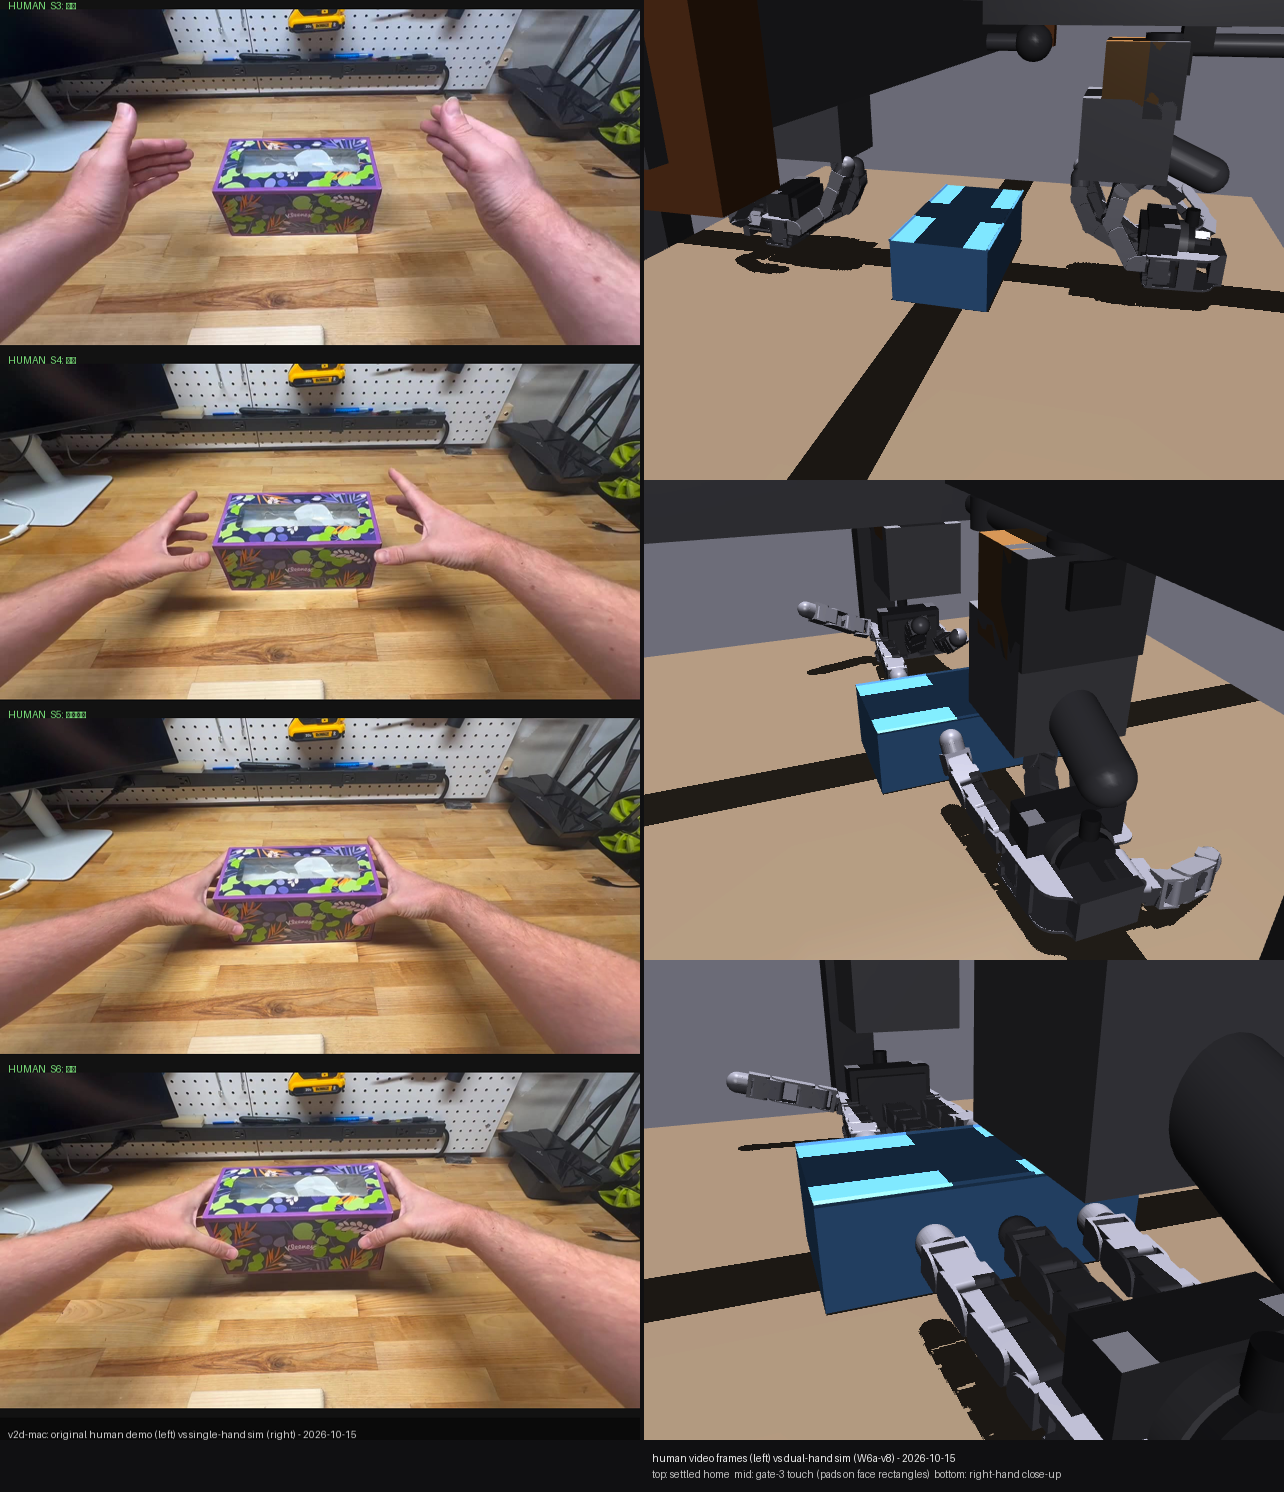
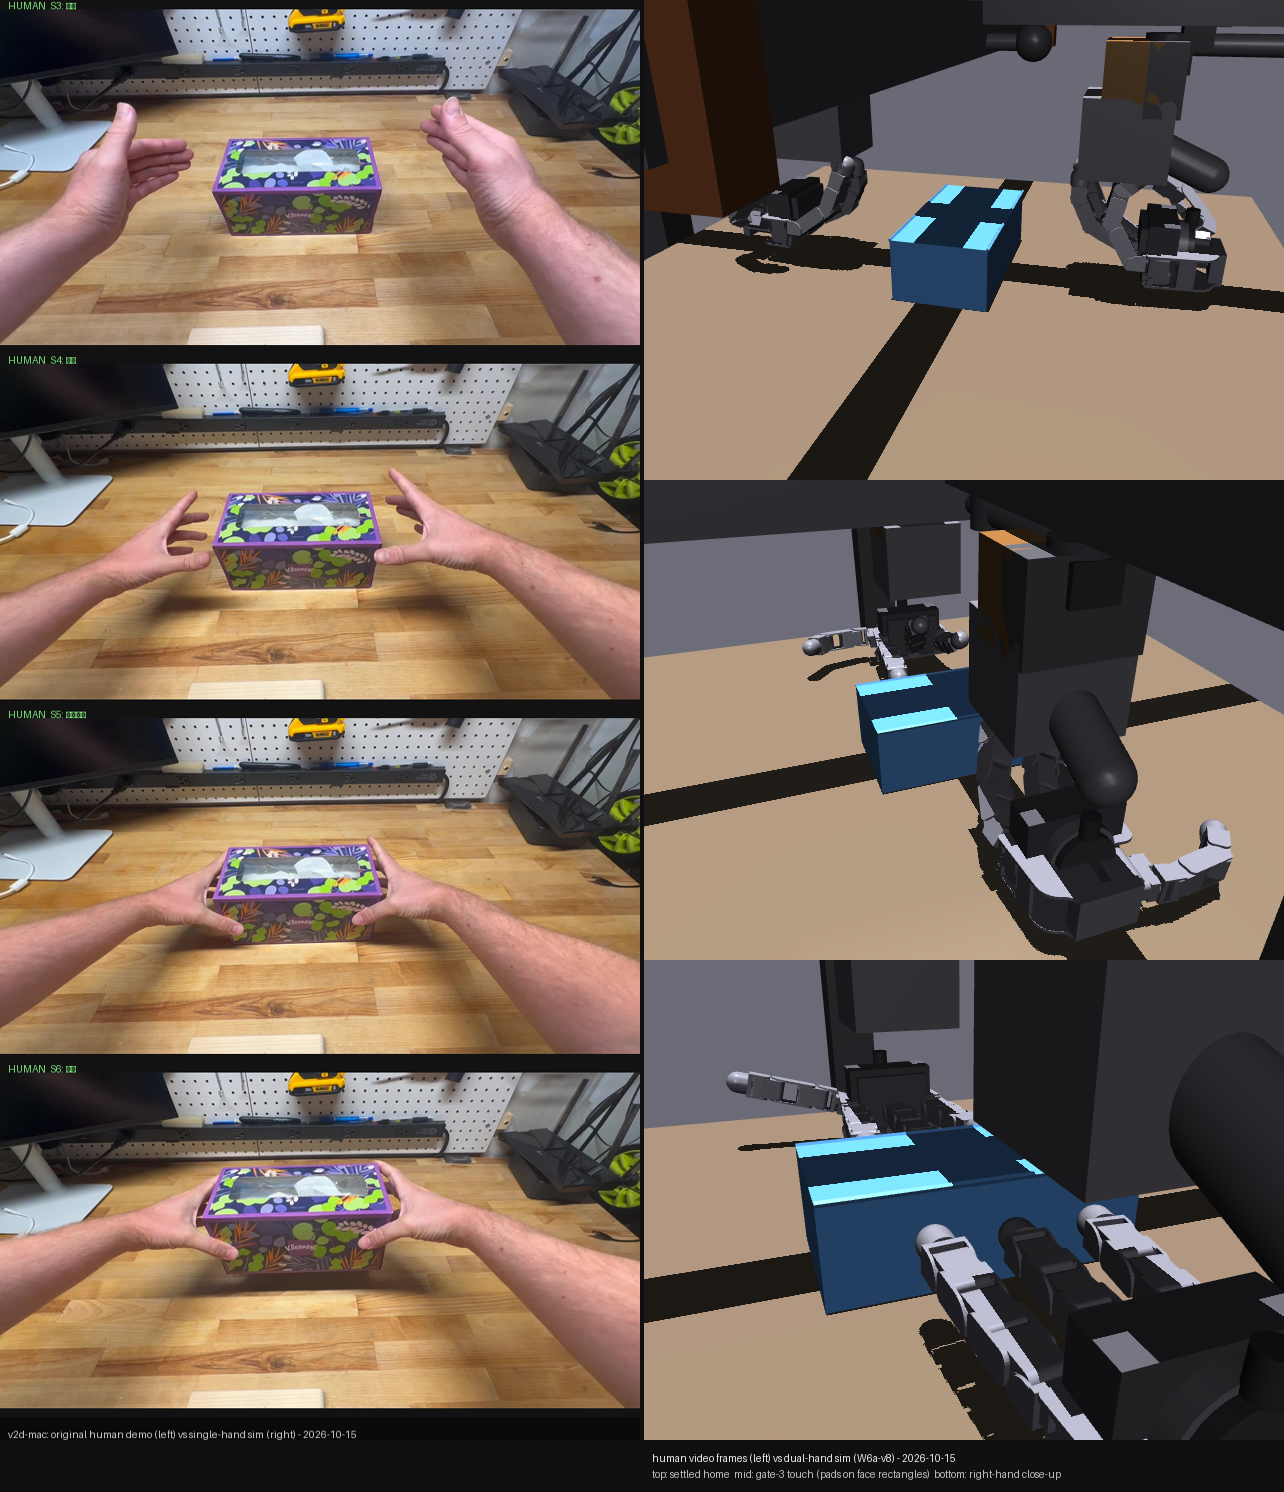
p0(w6a-v20): passive ball-joint follower pads — self-aligning under contact
Mechanism acceptance (r7e retest conditions):
  press N 3.8/4.8 N (3x v19 — follower pads seat face-parallel);
  +0.20 rad curl demand: N held 2.58/4.44 N, no collapse (pre-v20 force
  mode collapsed to 0.00 N); pad hinges deflect 38-49 mrad absorbing curl.
Fully passive: zero actuators, ctrl 50 / obs 109 unchanged — checkpoints
  remain bit-valid.
Ripple (mechanical): nq 57->65, nv 56->64, nbody 55->59 (ngeom 145);
  gate3_qpos.json regenerated 65-wide; all readers switched to
  jnt_qposadr name addressing (gate3b, smoke6 probe); _pad_checkpoint
  rewritten name-mapped (51-wide legacy -> 65-wide, pad slots zeroed).

diff --git a/grounding/assets/build_allegro_floating.py b/grounding/assets/build_allegro_floating.py
@@ -1325,6 +1325,48 @@ def _annotate_hand_geoms(palm_el: ET.Element, solref, solimp) -> None:
             geom.set("friction", "1.8 0.005 0.0001")
 
 
+def _add_follower_pads(palm_el: ET.Element) -> None:
+    """W6a-v20: passive follower pads on the lift-chain fingertips (ff/mf).
+
+    The flat pad geom moves from a rigid mount on the tip body to a dedicated
+    pad body on two light orthogonal hinges (spring-centred to the mount
+    frame: stiffness 0.02 N*m/rad, damping 0.002, range +-0.6 rad).  At the
+    grasp operating point the springrest orientation IS the proven
+    face-parallel orientation (identity mount), and contact normal torque
+    dominates the light spring, so under curl the loaded face stays
+    face-parallel instead of breaking planar contact (r7e root cause:
+    curl rotation tilted the rigid flat pad a few degrees and the plane
+    contact collapsed).  rf/th pads stay rigid (not on the lift chain).
+
+    Fully passive: zero actuators, zero ctrl dims, zero obs entries — the
+    trained checkpoints remain bit-valid (v19 precedent).
+    """
+    for body in palm_el.iter("body"):
+        bname = body.get("name") or ""
+        if not bname.endswith(_TIP_BODY_SUFFIXES):
+            continue
+        if not (bname.startswith("ff") or bname.startswith("mf")):
+            continue  # rf/th pads stay rigid
+        sfx = "_left" if bname.endswith("_left") else ""
+        f = bname[: -len("_tip_left")] if sfx else bname[: -len("_tip")]
+        pad = ET.SubElement(body, "body", {"name": f"{f}_pad{sfx}", "pos": "0 0 0"})
+        for axis, nm in (("0 1 0", "rx"), ("1 0 0", "ry")):
+            ET.SubElement(pad, "joint", {
+                "name": f"{f}_pad{nm}{sfx}", "type": "hinge",
+                "pos": "0 0 0", "axis": axis, "range": "-0.6 0.6",
+                "stiffness": "0.02", "damping": "0.002", "springref": "0"})
+        moved = []
+        for geom in list(body.findall("geom")):
+            cls = geom.get("class") or ""
+            if "visual" in cls or "tip" not in cls:
+                continue  # the visual pad mesh stays rigid on the tip body
+            body.remove(geom)
+            geom.set("mass", "0.005")  # 5 g: MuJoCo DoF-inertia floor + springrest mass
+            pad.append(geom)
+            moved.append(geom.get("name"))
+        assert moved, f"{bname}: no collision geom found to move into the pad body"
+
+
 # --- W6a / R10: the left hand is a renamed deep copy of the right ------------
 def _left_palm_from(raw_palm_el: ET.Element) -> ET.Element:
     """Deep-copy the RAW (pre-naming) upstream palm subtree and append ``_left``
@@ -1515,6 +1557,7 @@ def _upstream_parts() -> tuple[str, str, str, list, ET.Element, list]:
     _name_hand_geoms(palm_el)
     _annotate_hand_geoms(palm_el, CONTACT_SOLREF, CONTACT_SOLIMP)
     _add_finger_home_springs(palm_el)
+    _add_follower_pads(palm_el)
     _metal_hand_visuals(palm_el)
     palm = _indent(palm_el, 6)
 
@@ -1580,6 +1623,7 @@ def build(lip_overhang_m: float = BOX_LIP_OVERHANG_M,
     _name_hand_geoms(left_el)
     _annotate_hand_geoms(left_el, CONTACT_SOLREF, CONTACT_SOLIMP)
     _add_finger_home_springs(left_el, "_left")
+    _add_follower_pads(left_el)
     _metal_hand_visuals(left_el)
     palm_left = _indent(left_el, 6)
     excludes = _exclude_lines(exclude_pairs)

diff --git a/grounding/train_w6c.py b/grounding/train_w6c.py
@@ -550,13 +550,34 @@ def _pad_checkpoint(q: np.ndarray, c: np.ndarray) -> tuple[np.ndarray, np.ndarra
     elbow_r+l at 0-5, object_free moved 0 -> 6) and the 6 arm actuators
     APPENDED at ctrl tail (44-50, owned by _write_arm_ik_ctrl)."""
     _m = mujoco.MjModel.from_xml_path(str(MJCF))
-    if _m.nq >= len(q) + 6 and _m.jnt_qposadr[
-            mujoco.mj_name2id(_m, mujoco.mjtObj.mjOBJ_JOINT,
-                              "object_free")] == 6:
+    obj_adr = _m.jnt_qposadr[
+        mujoco.mj_name2id(_m, mujoco.mjtObj.mjOBJ_JOINT, "object_free")]
+    if _m.nq >= len(q) + 6 and obj_adr == 6:
         q19 = np.zeros(_m.nq)
         q19[0:6] = 0.0                      # arm chain (env-driven)
         q19[6:13] = q[0:7]                  # object free joint
-        q19[13:_m.nq] = q[7:len(q)]         # hand joints
+        # v20: pad-hinge slots interleaved inside each hand block stay zero;
+        # hand joints are mapped by NAME so the block layout can shift freely
+        legacy_fingers = [f"{f}j{i}" for f in ("ff", "mf", "rf", "th")
+                          for i in range(4)]
+        legacy_fingers += [f"{f}j{i}_left" for f in ("ff", "mf", "rf", "th")
+                           for i in range(4)]
+        wrist_names = [f"wrist_{a}" for a in ("x", "y", "z", "rx", "ry", "rz")]
+        wrist_names += [w + "_left" for w in wrist_names]
+        for jb in range(1, _m.nbody):
+            for jj in range(int(_m.body_jntnum[jb])):
+                jid = int(_m.body_jntadr[jb]) + jj
+                jname = mujoco.mj_id2name(_m, mujoco.mjtObj.mjOBJ_JOINT, jid)
+                if (not jname or jname.startswith("arm_")
+                        or jname == "object_free"):
+                    continue  # arm chain stays env-driven; object handled above
+                dst = int(_m.jnt_qposadr[jid])
+                if jname in legacy_fingers:
+                    q19[dst] = q[13 + legacy_fingers.index(jname)]
+                elif jname in wrist_names:
+                    src = 7 + wrist_names.index(jname) if not jname.endswith(
+                        "_left") else 29 + wrist_names.index(jname)
+                    q19[dst] = q[src]
     else:
         q19 = np.zeros(_m.nq); q19[:min(len(q), _m.nq)] = q[:_m.nq]
     c19 = np.zeros(_m.nu); c19[:min(len(c), _m.nu)] = c[:_m.nu]

diff --git a/tests/test_smoke6_mjcf.py b/tests/test_smoke6_mjcf.py
@@ -378,12 +378,15 @@ def test_r1_measured_fingertip_force_stays_under_ten_newtons(model):
         for h in range(2):
             base = h * 22
             for k in range(6):
-                a[base + k] = float(gate3[13 + 22 * h + k])
+                a[base + k] = float(gate3[int(m_env.model.jnt_qposadr[
+                    mujoco.mj_name2id(m_env.model, mujoco.mjtObj.mjOBJ_JOINT,
+                    ("wrist_x", "wrist_y", "wrist_z", "wrist_rx", "wrist_ry",
+                     "wrist_rz")[k] + ("" if h == 0 else "_left"))])])
             for i in range(16):
                 jname = hand_names[22 * h + 6 + i]
                 jid = mujoco.mj_name2id(m_env.model, mujoco.mjtObj.mjOBJ_JOINT, jname)
                 lo, hi = m_env.model.jnt_range[jid]
-                q_target = float(gate3[13 + 22 * h + 6 + i])
+                q_target = float(gate3[int(m_env.model.jnt_qposadr[jid])])
                 a[base + 6 + i] = float(np.clip(
                     2.0 * (q_target - lo) / (hi - lo) - 1.0, -1.0, 1.0))
         hook_env.step(a)
@@ -956,10 +959,10 @@ def test_model_loads_and_statistics_are_self_consistent(model):
     # 42 hand geoms x 2 (W6a dual hands) + 3 object (box + 2 chamfers)
     # + floor + table slab (pedestal removed in W6a)
     assert model.ngeom == 145
-    assert model.nbody == 55
-    assert model.nq == 57
+    assert model.nbody == 59
+    assert model.nq == 65
     assert model.nu == 50
-    assert model.nv == 56
+    assert model.nv == 64
     obj = mujoco.mj_name2id(model, mujoco.mjtObj.mjOBJ_BODY, "object")
     assert float(model.body_mass[obj]) == pytest.approx(BOX_MASS_KG)
 

diff --git a/tests/test_scene_w6.py b/tests/test_scene_w6.py
@@ -79,8 +79,8 @@ EXPECTED_NGEOM = 145
 
 def test_w6_model_statistics(model):
     # 2 hands x (7 freejoint-equivalent wrist DoF + 16 fingers) + object 7
-    assert model.nq == 57
-    assert model.nv == 56
+    assert model.nq == 65
+    assert model.nv == 64
     assert model.nu == 50
     assert model.ngeom == EXPECTED_NGEOM
     # additive accounting: every family counted independently must sum to it
@@ -228,7 +228,8 @@ def test_w6_gate3b_static_hold_spring_demand_within_servo_caps(model):
                 jn = f"{f}j{i}{sfx}"
                 jid = nid(model, mujoco.mjtObj.mjOBJ_JOINT, jn)
                 aid = nid(model, mujoco.mjtObj.mjOBJ_ACTUATOR, f"{f}a{i}{sfx}")
-                qj = float(q[19 + (0 if sfx == "" else 22) + 4 * FINGERS.index(f) + i])
+                qadr = int(model.jnt_qposadr[nid(model, mujoco.mjtObj.mjOBJ_JOINT, jn)])
+                qj = float(q[qadr])
                 cap = 0.8 * float(model.actuator_forcerange[aid][1])
                 demand = abs(KJ[4 * FINGERS.index(f) + i] * (qj - refs[f"{f}j{i}"]))
                 if demand > worst[1]:
